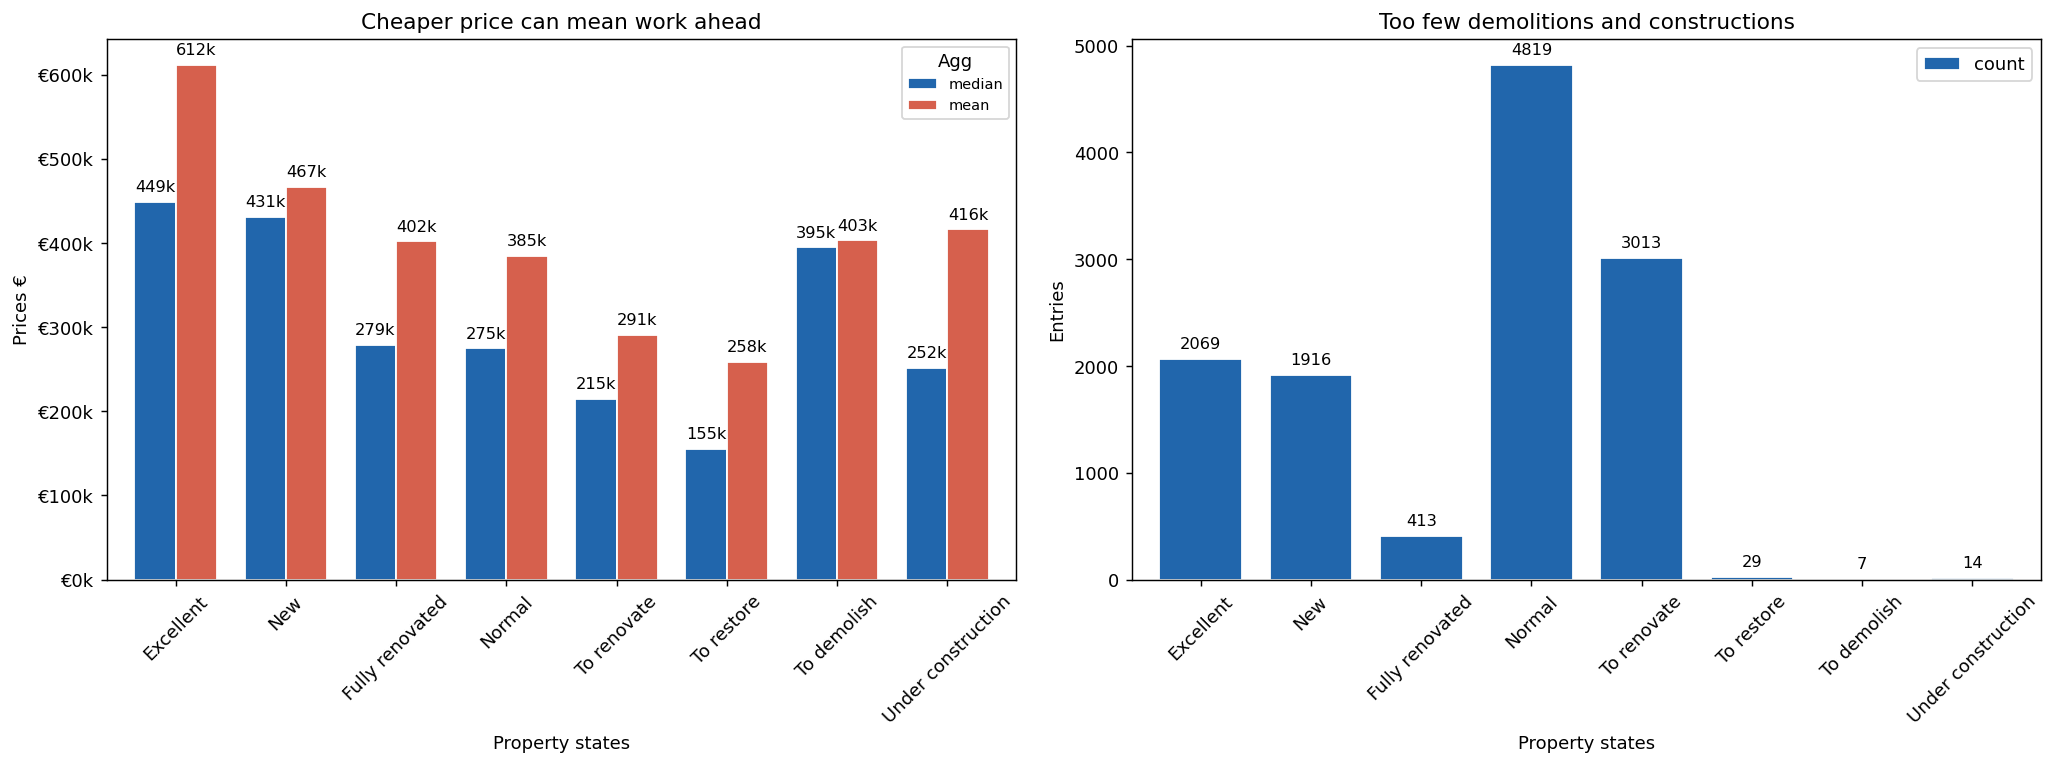
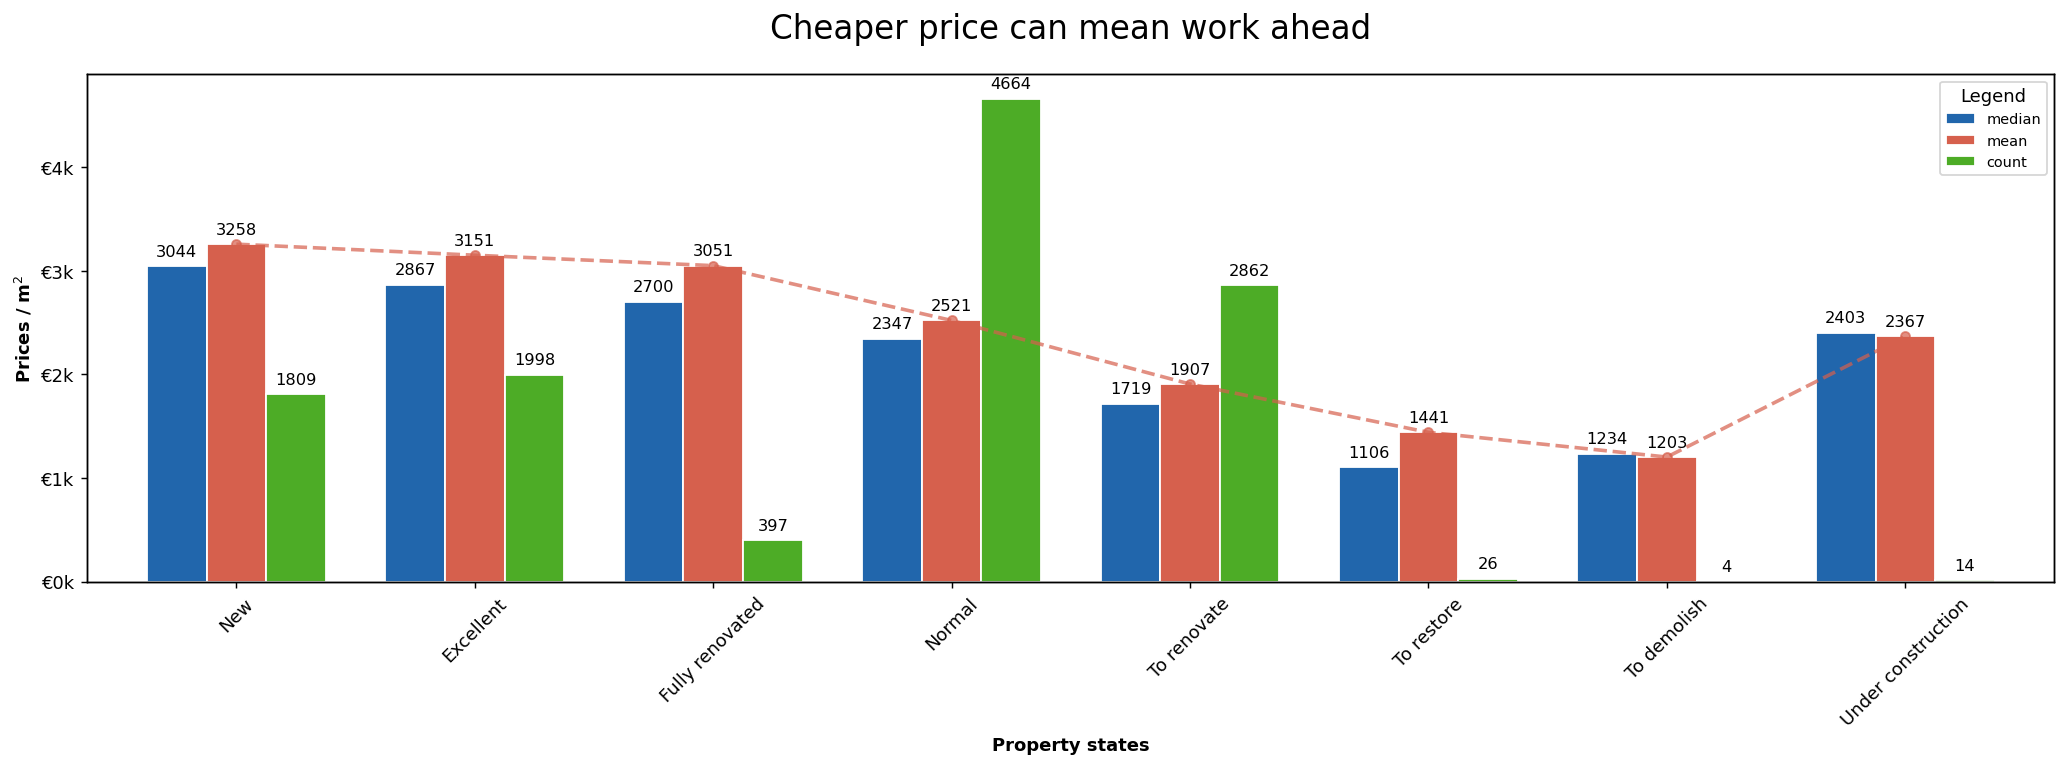
Changed my second graph

diff --git a/src/correlations_and_property_states.py b/src/correlations_and_property_states.py
@@ -31,45 +31,43 @@ def correlations_matrix(df, base_dir):
 
 def price_vs_property_states(df, base_dir, PALETTE):
     """
-    Function creating a grouped bar chart of price per 
-    property states and saves it
+    Function creating a grouped bar chart of price per meter squared in 
+    relation to property states and saves it
     :params: pandas.DataFrame
     :params: string root folder path
     :params: list of string hex colours 
     """
-    property_state = df.groupby('property_state', observed=True)["price"].agg(["count", "median", "mean"])
-    new_row_order = ['Excellent', 'New', 'Fully renovated', 'Normal', 'To renovate', 'To restore', 'To demolish', 'Under construction']
+    property_state = df.groupby('property_state', observed=True)["price_per_m2"].agg(["count", "median", "mean"])
+    new_row_order = ['New', 'Excellent', 'Fully renovated', 'Normal', 'To renovate', 'To restore', 'To demolish', 'Under construction']
     property_state = property_state.reindex(new_row_order)
 
-    fig, axes = plt.subplots(1, 2, figsize=(16, 6))
-    property_state[["median", "mean"]].plot(kind='bar', ax=axes[0], color=PALETTE, edgecolor='white', width=0.75, rot=45)
+    fig, ax = plt.subplots(figsize=(16, 6))
+    property_state[["median", "mean", "count"]].plot(kind='bar', ax=ax, color=PALETTE, edgecolor='white', width=0.75, rot=45)
 
-    axes[0].set_title('Cheaper price can mean work ahead')
-    axes[0].set_ylabel('Prices €')
-    axes[0].set_xlabel('Property states')
-    axes[0].legend(title='Agg', fontsize=8)
-    axes[0].yaxis.set_major_formatter(mticker.FuncFormatter(lambda x,_: f'€{x/1000:.0f}k'))
+    ax2 = ax.twinx()  # dual y-axis
 
-    for container in axes[0].containers:
-        labels = [f"{v.get_height()/1000:.0f}k" for v in container]
-        axes[0].bar_label(
+    ax2.plot(range(len(property_state.index)), property_state['mean'],
+            color=PALETTE[1], lw=2, marker='o', ls='--', ms=5, alpha=0.7, label='Avg price/m2')
+
+    # We call plt.draw() first to ensure matplotlib has finished calculating ax's auto-limits
+    fig.canvas.draw() 
+    ax2.set_ylim(ax.get_ylim())
+
+    ax.set_title('Cheaper price can mean work ahead', fontsize=18, pad=20)
+    ax.set_ylabel('Prices / m$^{2}$', fontweight='bold')
+    ax.set_xlabel('Property states', fontweight='bold')
+    ax.legend(title='Legend', fontsize=8)
+    ax.yaxis.set_major_formatter(mticker.FuncFormatter(lambda x,_: f'€{x/1000:.0f}k'))
+
+    ax2.get_yaxis().set_visible(False)
+
+    for container in ax.containers:
+        labels = [f"{v.get_height():.0f}" for v in container]
+        ax.bar_label(
             container, 
             padding=4, 
             fontsize=9,
             labels=labels
-        )
-
-    property_state[["count"]].plot(kind='bar', ax=axes[1], color=PALETTE, edgecolor='white', width=0.75, rot=45)
-
-    axes[1].set_title('Too few demolitions and constructions')
-    axes[1].set_ylabel('Entries')
-    axes[1].set_xlabel('Property states')
-
-    for container in axes[1].containers:
-        axes[1].bar_label(
-            container, 
-            padding=4, 
-            fontsize=9
         )
 
     plt.tight_layout()

diff --git a/main.py b/main.py
@@ -37,7 +37,7 @@ def main():
     print("'1' : Most common outlier")
     print("'2' : Build year vs price")
     print("'3' : Correlation matrix")
-    print("'4' : Price vs property states")
+    print("'4' : Price/m2 vs property states")
     print("'5' : Nb of Houses vs Apartments by Regions")
     print("'6' : Distribution of properties vs surface")
     print("'7' : Most & least expensive municipalities/regions")